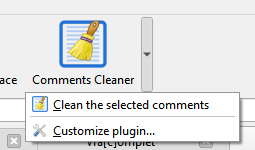
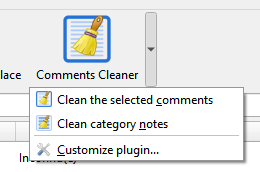
update README

Changed region(s): [[0.0, 0.0533, 1.0, 1.0], [0.0, 0.4, 0.0824, 0.48]]

diff --git a/README.md b/README.md
@@ -30,8 +30,10 @@ The plugin has the following options:
 * Remove Multiple Line Return <br> and create a new paragraph instead
 * Convert 'Line Return' into Paragraph or Space
 * Management of empty paragraphs
+* Removing images
 * Ability to specify others CSS rules to keep in addition to the basic CSS rule
 * Possibility to apply the cleaning to others custom HTML columns
+* Support of Category Notes
 
 
 Basic CSS rules keep by default:
@@ -48,8 +50,7 @@ text-decoration
 Open *Preferences -> Plugins -> Get new plugins* and install the "Comments Cleaner" plugin.
 You may also download the attached zip file and install the plugin manually, then restart calibre as described in the [Introduction to plugins thread](https://www.mobileread.com/forums/showthread.php?t=118680")
 
-The plugin works for Calibre 2 and later.<br>
-It is therefore compatible for *QtWebKit* (Calibre <4) and *QtWebEngine* (Calibre >=4).
+The plugin works for Calibre 4 and later.
 
 Page: [GitHub](https://github.com/un-pogaz/Comments-Cleaner) | [MobileRead](https://www.mobileread.com/forums/showthread.php?t=333861)
 
@@ -62,6 +63,7 @@ I am *French*! Although for obvious reasons, the default language of the plugin 
 ![configuration panel](https://raw.githubusercontent.com/un-pogaz/Comments-Cleaner/main/static/Comments_Cleaner.png)
 ![button menu](https://raw.githubusercontent.com/un-pogaz/Comments-Cleaner/main/static/Comments_Cleaner-menu.png)
 ![example of cleaned comment](https://raw.githubusercontent.com/un-pogaz/Comments-Cleaner/main/static/Comments_Cleaner-exemple.gif)
+![selection of notes to clean](https://raw.githubusercontent.com/un-pogaz/Comments-Cleaner/main/static/Comments_Cleaner-notes.png)
 
 
 [mobileread-url]: https://www.mobileread.com/forums/showthread.php?t=333861
